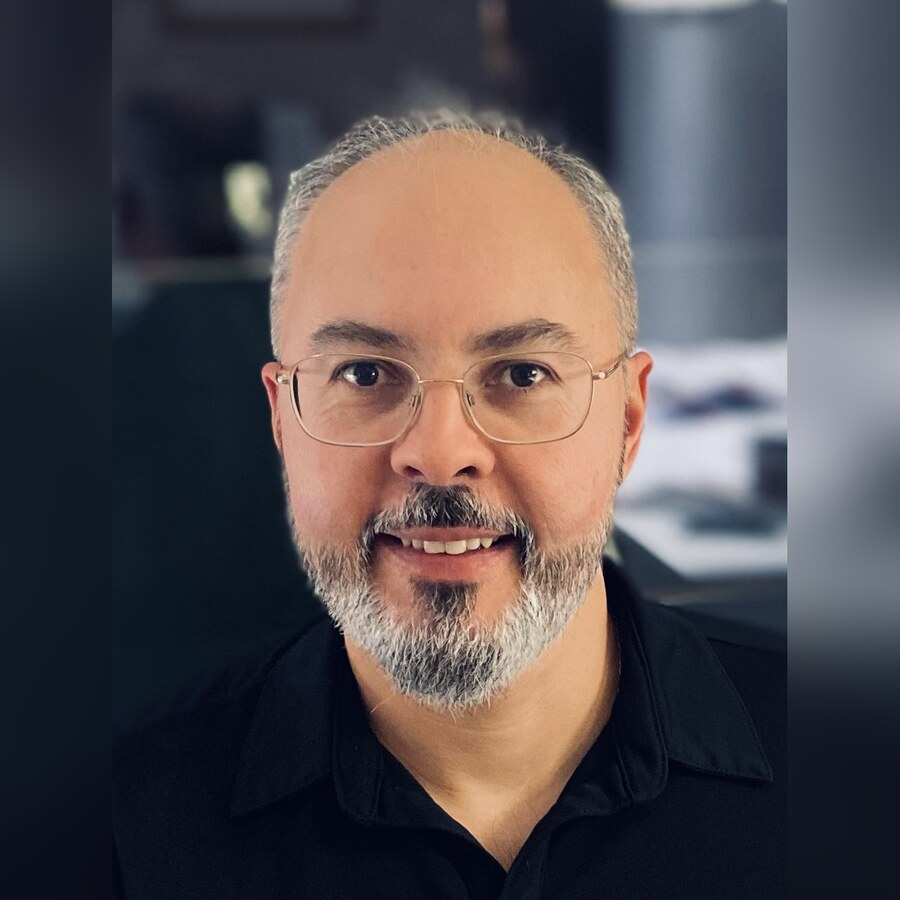
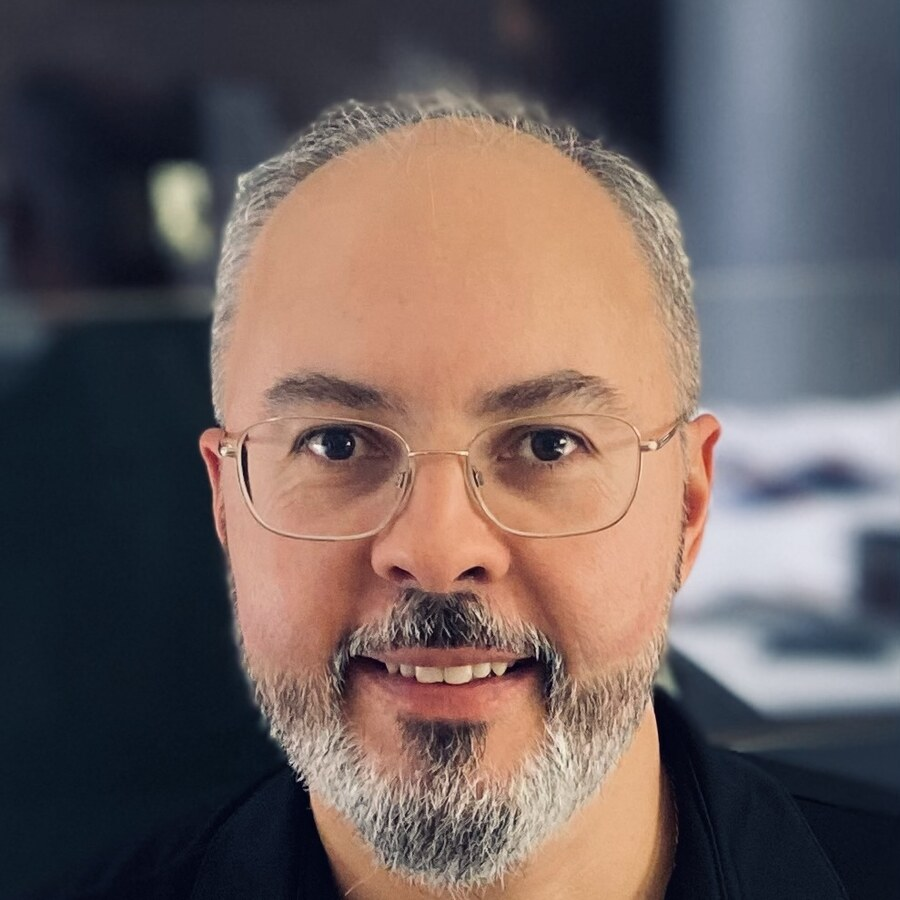
cv(feat): move outputs onto sidebar page, resize donuts, redo portrait crop
- Give research-output charts their own cv-with-side page with a two-column
  legend (all-time and 5y counts), leaving cv-thin-side for the bibliography
  alone
- Drop profile-picture: from cv() since neat-cv repeats it on every
  cv-with-side; place the portrait by hand instead
- Recrop cv/portrait.jpg from the full-resolution source with documented
  ImageMagick command
- Simplify cv.json positions to a single title

diff --git a/AGENTS.md b/AGENTS.md
@@ -175,12 +175,19 @@ section the CV does **not** currently print — `service` (committees, reviewing
 memberships), parked pending a review; the `= Community Service` block in
 `cv/cv.typ` is commented out, not deleted.
 
-The research-output pages open on two donut charts — every output by type, and
-the same for the last five calendar years. `output_stats()` in `tools/build-cv.py`
-counts them, `CHART_LABELS` there fixes both the slice order and the short names,
-and `slice-color` in `cv/cv.typ` maps a name to a colour so a category looks the
-same in both charts. Slices under 5% are named in the shared legend rather than
-on the rim, where their labels would collide.
+The research outputs open on a page whose 4 cm sidebar holds two donut charts —
+every output by type, and the same for the last five calendar years — over a
+legend counting both. `output_stats()` in `tools/build-cv.py` does the counting,
+`CHART_LABELS` there fixes both the slice order and the short names, and
+`slice-color` in `cv/cv.typ` maps a name to a colour, so a category looks the
+same in both charts. The slices carry no rim labels: 4 cm has no room for them,
+and the legend names every category anyway.
+
+That page is a second `cv-with-side`, and the bibliography after it switches to
+`cv-thin-side` — it runs for pages, and 4 cm of white down each would buy nothing.
+Opening a second wide sidebar is also why `cv()` is called **without**
+`profile-picture:`: neat-cv draws that at the top of every `cv-with-side`
+sidebar, so the portrait is placed by hand in the first one instead.
 
 ### How it fits together
 
@@ -201,7 +208,16 @@ Three details worth not rediscovering:
   `tools/validate_content.py` (`STATIC_BUILD_PRODUCTS`) and git-ignored.
 - **`cv/portrait.jpg` is committed**, the one raw image in the repository: Typst
   cannot fetch a URL, so the header photo cannot live on Idiap like the others.
-  Keep it small and square — it is clipped to a circle.
+  It must be square, because it is clipped to a circle, and it should be a real
+  crop that fills the frame — no letterboxing, no blurred bands. From the
+  full-resolution portrait on Idiap:
+  ```sh
+  magick idiap-public/images/pictures/andre-anjos-portrait.jpg \
+    -gravity north -crop 989x989+0+60 +repage \
+    -resize 900x900 -strip -quality 88 -interlace Plane cv/portrait.jpg
+  ```
+  The crop is the source's full width; the `+60` offset is what centres the face
+  once the circle clips the corners. Re-derive both if the source changes.
 - **Fonts come from conda-forge** (`font-ttf-roboto`, `font-ttf-opensans`,
   `font-otf-fontawesome`) and land in `$CONDA_PREFIX/fonts`, which Typst does not
   scan on its own — hence `--font-path` in the task. neat-cv's default heading
